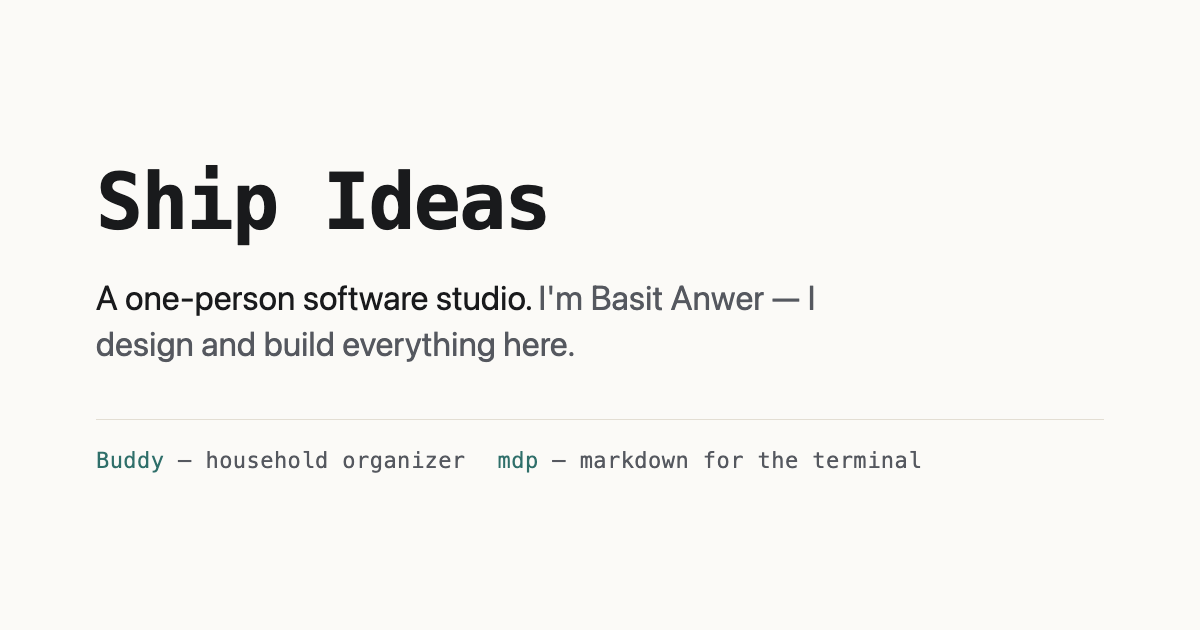
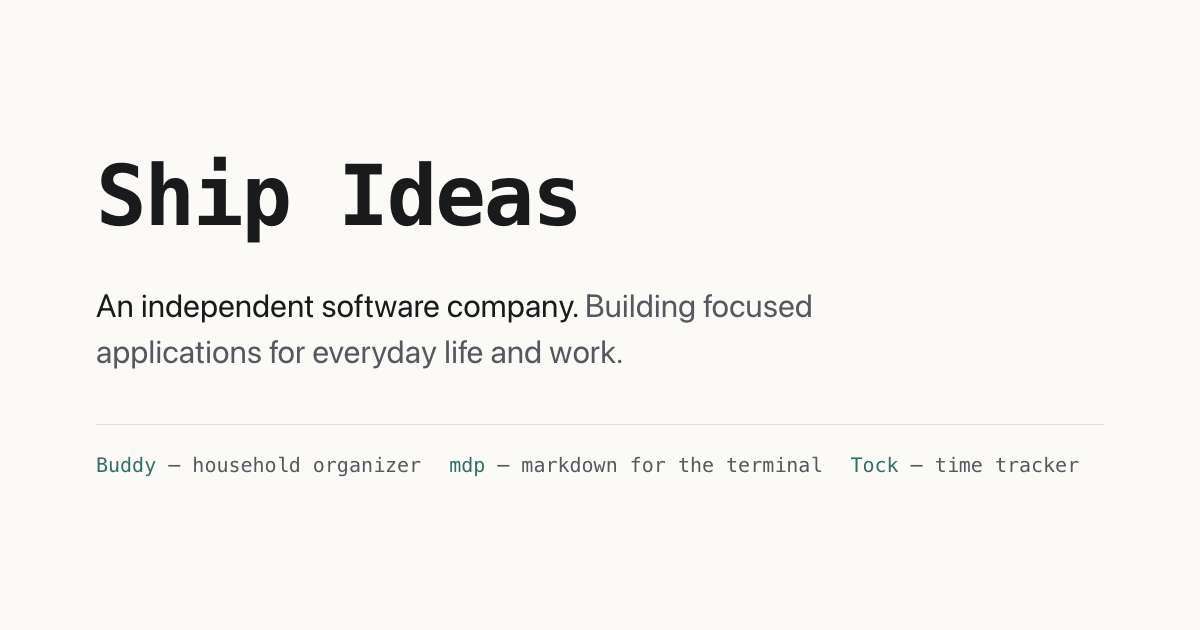
Present Ship Ideas as an independent software company and add Tock
The hero, About, contact line, page title, meta description and social
card drop the one-person-studio wording for company wording, with Basit
Anwer named once as founder. Tock joins Buddy and mdp as a third product
in development.

Claude-Session: https://claude.ai/code/session_01NrwKgYepgQzT1VeLuuyqyQ

diff --git a/src/data/copy.ts b/src/data/copy.ts
@@ -15,31 +15,24 @@ export interface Section {
 
 export const hero = {
   /** Sits directly under the wordmark. Deliberately one sentence. */
-  lede: 'A one-person software studio.',
-  /**
-   * The ten-second job: whose studio this is. Rendered as a separate line so
-   * `author` can carry emphasis without the surrounding text being one blob.
-   */
-  intro: {
-    before: "I'm ",
-    author: 'Basit Anwer',
-    after: ' — I design and build everything listed below.',
-  },
+  lede: 'An independent software company.',
+  /** The ten-second job: what the company makes. Rendered as its own line. */
+  intro: 'Building focused applications for everyday life and work.',
 } as const;
 
 /**
- * Reviewed and approved by Basit.
+ * Rewritten in the company's voice; not yet reviewed by Basit.
  *
- * Deliberately free of unverifiable claims — no years of experience, no former
- * employers, no numbers. If you add any, they should be things you can point at.
+ * Deliberately free of unverifiable claims — no team, no customers, no offices,
+ * no numbers. If you add any, they should be things you can point at.
  */
 export const about: Section = {
   id: 'about',
   heading: 'About',
   body: [
-    "I'm Basit Anwer. I build software on my own, end to end — the idea, the thing itself, and the unglamorous part where it has to keep working for people who did not build it.",
-    'I like tools with a clear edge to them. Something that does one thing and says no to the rest is easier to trust than something that tries to do everything, so a good deal of the work is deciding what to leave out. I care about software that starts fast, stays out of the way, and does not need to be learned twice.',
-    'Ship Ideas is the name I ship under.',
+    'Ship Ideas designs, develops, and maintains software with a clear purpose. Our approach is simple: solve a specific problem well, keep the experience straightforward, and build products people can depend on.',
+    'Software that does one thing and says no to the rest is easier to trust than software that tries to do everything, so a good deal of the work is deciding what to leave out. The aim is software that starts fast, stays out of the way, and does not need to be learned twice.',
+    'Founded by Basit Anwer, the company develops its own applications for individuals, households, and developers.',
   ],
 };
 
@@ -51,5 +44,5 @@ export const building: Pick<Section, 'id' | 'heading'> = {
 export const contactSection: Section = {
   id: 'contact',
   heading: 'Contact',
-  body: ['Email is the best way to reach me.'],
+  body: ['Email is the best way to get in touch.'],
 };

diff --git a/src/data/site.ts b/src/data/site.ts
@@ -21,17 +21,17 @@ export const site = {
   name: 'Ship Ideas',
   /** Canonical origin. Drives sitemap.xml and absolute Open Graph URLs. */
   url: 'https://shpideas.com',
-  /** Owner. Referenced in the hero, the About section and structured metadata. */
+  /** Founder. Referenced in the author meta tag and structured metadata. */
   author: 'Basit Anwer',
   /** <title> for the home page. */
-  title: 'Ship Ideas — the software studio of Basit Anwer',
+  title: 'Ship Ideas — an independent software company',
   /** <meta name="description">. Kept under ~160 characters. */
   description:
-    'Ship Ideas is the one-person software studio of Basit Anwer. Currently building Buddy, a household organizer that lives in your chat app, and mdp, a markdown viewer for the terminal.',
+    'Ship Ideas is an independent software company building focused applications for everyday life and work. In development: Buddy, mdp and Tock.',
   /** Open Graph / Twitter card image, resolved against `url` at build time. */
   ogImage: '/og.png',
   /** Alt text for the card image. */
-  ogImageAlt: 'Ship Ideas — the software studio of Basit Anwer',
+  ogImageAlt: 'Ship Ideas — an independent software company',
 } as const;
 
 export const contact: readonly ContactLink[] = [

diff --git a/src/data/products.ts b/src/data/products.ts
@@ -60,4 +60,14 @@ export const products: readonly Product[] = [
     tags: ['Open source'],
     links: [{ label: 'Source on GitHub', href: 'https://github.com/basitanwer/mdp' }],
   },
+  {
+    id: 'tock',
+    name: 'Tock',
+    summary: 'A menu bar time tracker for the Mac, for people who bill several clients.',
+    body: [
+      'Tock sits in the macOS menu bar and keeps track of what is being worked on right now, how long it has taken today, and what that time is worth. Several timers can run at once, and each project carries its own billing rule — hourly, capped, prepaid, a retainer or a fixed fee — so a report for a client adds up without a spreadsheet.',
+      'A command line tool works on the same data as the app, and AI coding tools such as Claude Code can record their own time, kept apart from yours unless you choose to count it. Not released yet.',
+    ],
+    status: 'In development',
+  },
 ];

diff --git a/README.md b/README.md
@@ -1,7 +1,7 @@
 # shpideas.com
 
-The website for Ship Ideas — a single static page: who Basit Anwer is, what is
-being built under the studio, and how to get in touch.
+The website for Ship Ideas, an independent software company — a single static
+page: what the company is building, what it is for, and how to get in touch.
 
 Astro + Tailwind CSS, statically generated. No client-side JavaScript, no web
 fonts, no analytics, no cookies.
